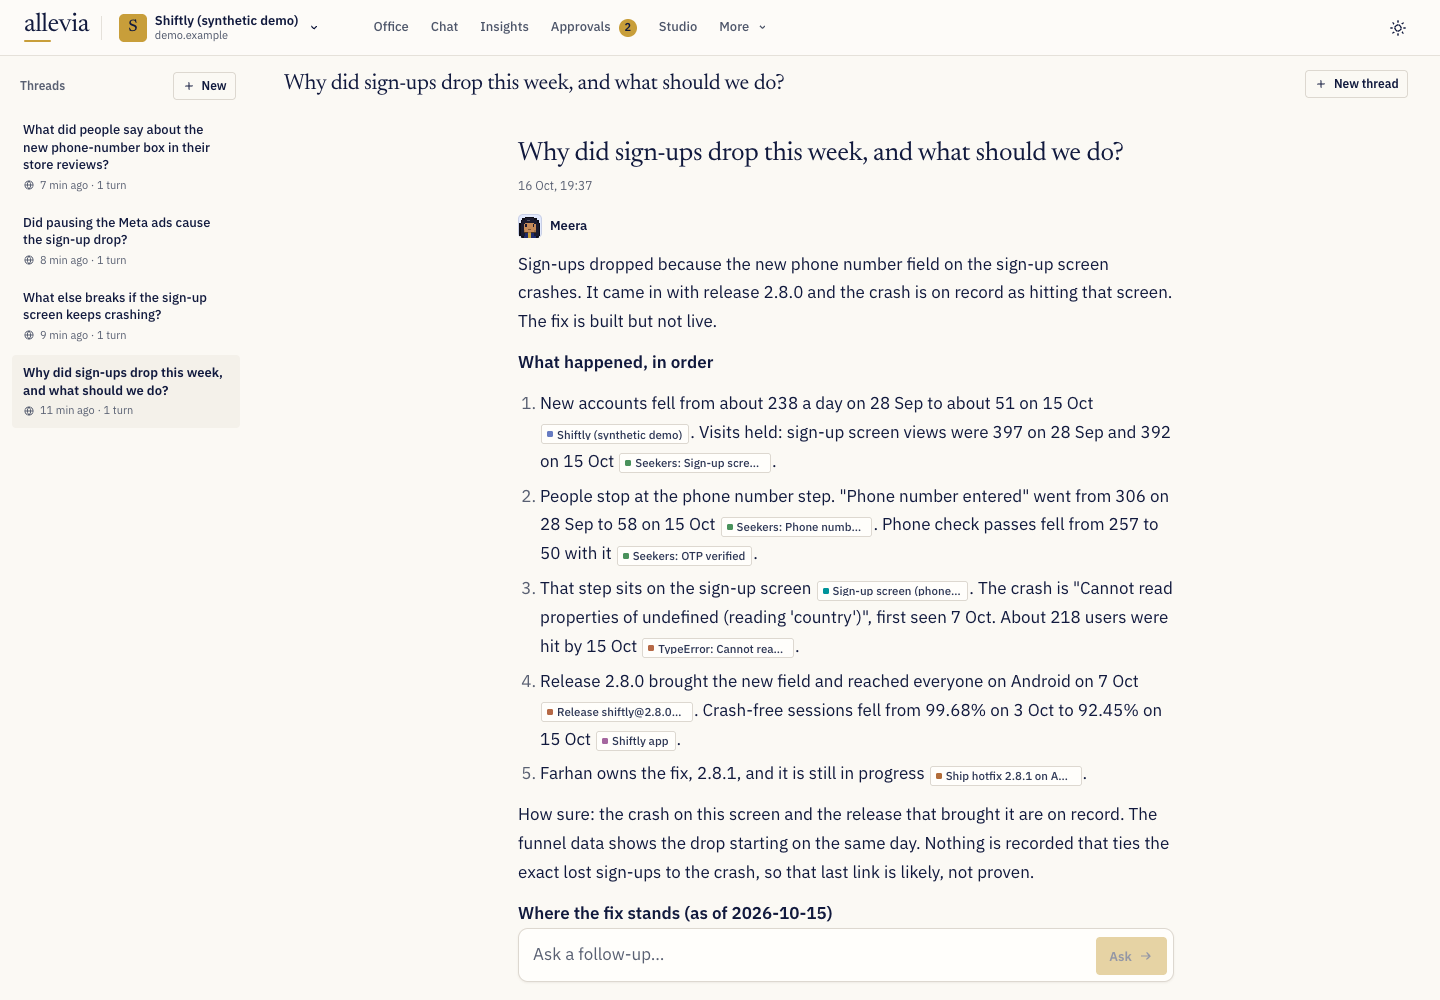
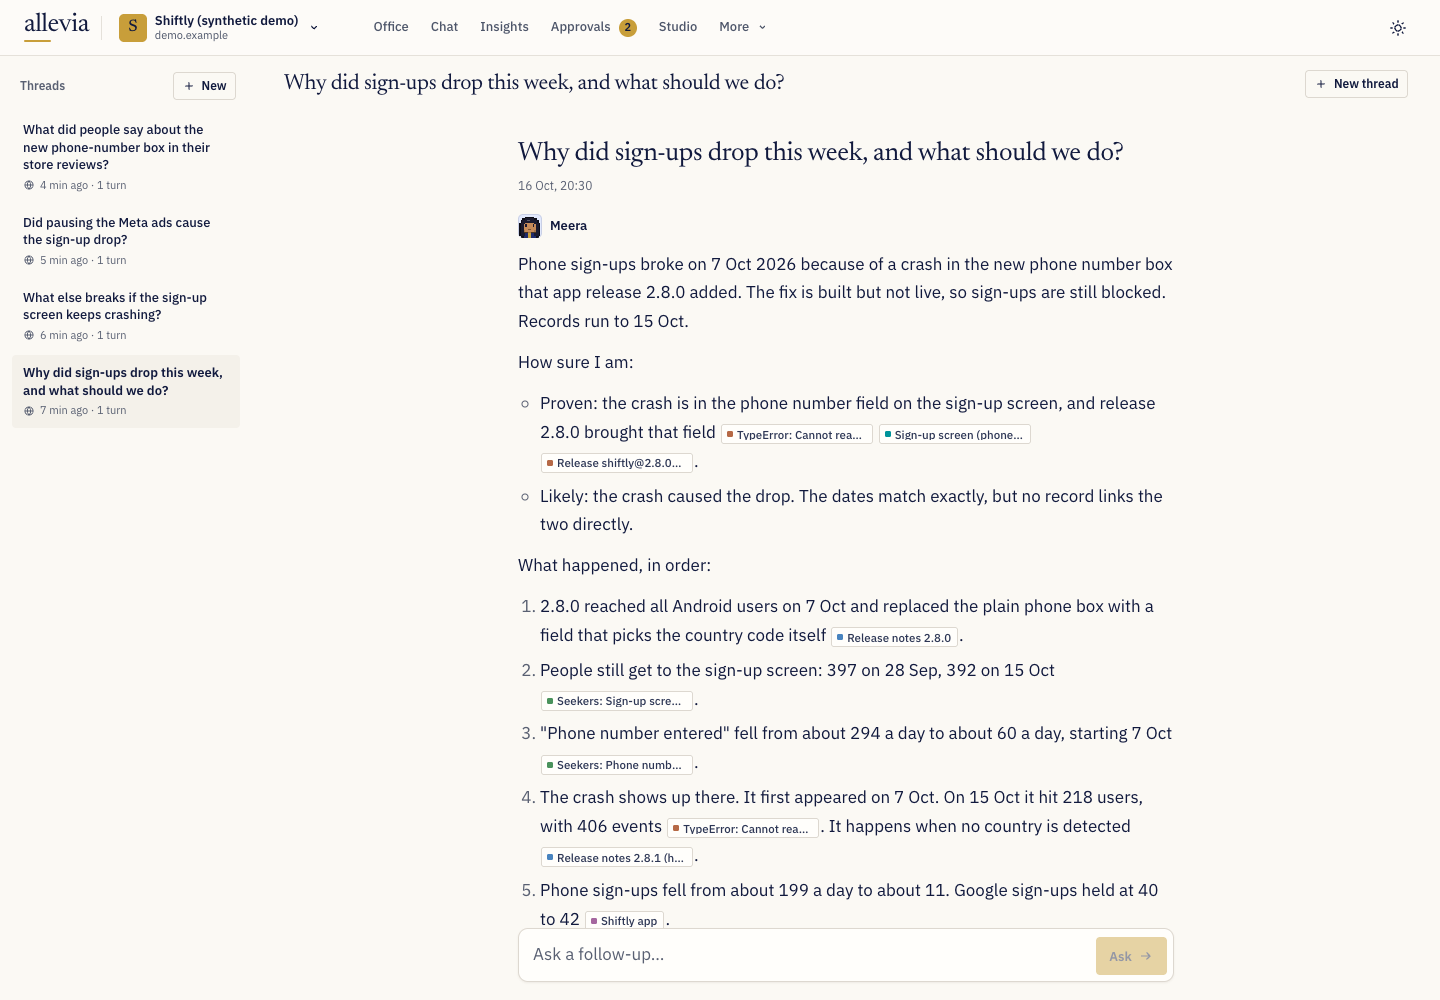
docs: screenshots and live-scenarios figures from the final recorded copy (post-Sales seed); the office shows Neel's desk

Changed region(s): [[0.3438, 0.248, 0.8125, 0.93], [0.0312, 0.403, 0.0625, 0.434]]

diff --git a/docs/live-scenarios.md b/docs/live-scenarios.md
@@ -19,8 +19,10 @@ repository, so they are named below as results and not linked.
 
 ## 0. The hero
 
-**Run:** the question as an owner would type it, in the web app, on Shiftly, from a clean export of this repository on a machine
-that had never run it. **When:** 16 Oct, 19:37 to 19:41 IST. **Cost:** subscription time only.
+**Run:** the question as an owner would type it, through the web app's API, on Shiftly, from a clean export of this repository on a
+machine that had never run it, with the server's own morning jobs switched off. **When:** 16 Oct, 20:30 to 20:34 IST, on the
+tree that includes the Sales department. **Cost:** subscription time only. (The same four questions were also run at 19:37 on the
+tree before Sales landed; they were made again so the replayed copy matches the product as it is.)
 
 Four questions, one after the other, each a new thread: the hero, "What else breaks if the sign-up screen keeps crashing?",
 "Did pausing the Meta ads cause the sign-up drop?" and "What did people say about the new phone-number box in their store
@@ -28,15 +30,17 @@ reviews?" (a question with no records behind it).
 
 | Question | Time | Who worked | What it did |
 |---|---|---|---|
-| Why did sign-ups drop this week, and what should we do? | 92 s | Meera, Kabir, Zoya, Imran, Sara, Isha, Arjun | Cause (the phone-number field that came with 2.8.0 crashes the sign-up screen), chain with dates, how sure, what is not recorded, where the fix stands, two cards waiting for OK |
-| What else breaks if the sign-up screen keeps crashing? | 58 s | | Depth 1 against depth 4 from `impact_of`: the next steps, then job-alert texts, referral invites, the employer inbox; Farhan owns the screen; owners of the rest "not recorded" |
-| Did pausing the Meta ads cause the sign-up drop? | 49 s | | "Almost certainly not": the fall began on 7 Oct, the pause was on 10 Oct; ad numbers called sample numbers; keeps Meta off until the fix is live |
-| What did people say about the new phone-number box in their store reviews? | 35 s | | "Not recorded": no store reviews in the records; says what to export; invents no quote |
+| Why did sign-ups drop this week, and what should we do? | 101 s | Meera, Kabir, Zoya, Imran, Sara, Isha, Arjun | Cause (the phone-number field that came with 2.8.0 crashes the sign-up screen): "proven" for the crash and the release, "likely" for the link to the drop; chain with dates, what is not recorded, where the fix stands, two cards waiting for OK |
+| What else breaks if the sign-up screen keeps crashing? | 73 s | Meera, Arjun, Imran | Depth 1 against depth 4 from `impact_of`: ten things depend on the screen, three straight away (the Pune ads, the phone-number step, screen views), the rest down the line; owners named where recorded, "not recorded" where not |
+| Did pausing the Meta ads cause the sign-up drop? | 47 s | Meera, Kabir, Zoya, Imran, Isha | "No": the fall began on 7 Oct, the pause was on 10 Oct; ad numbers called sample numbers; Google sign-ups held |
+| What did people say about the new phone-number box in their store reviews? | 38 s | Meera, Imran | "Not recorded": no store reviews in the records; says what to export; invents no quote |
 
 All four passed every check (citations valid, numbers grounded, sample numbers disclosed, dates disclosed, mode disclosed).
-Honest note on variance: a first take of the depth question, run earlier the same hour, **failed two checks** (it named the ad
-campaign without saying its figures are sample numbers) and showed the "unverified" badge; it was not kept, and the re-run
-passed. Answers differ in wording and detail from run to run; the cause and the path do not.
+Honest notes on variance: a first take of the depth question, run at 19:36 the same evening, **failed two checks** (it named the ad
+campaign without saying its figures are sample numbers) and showed the "unverified" badge; it was not kept. A later recording
+attempt picked up three extra notes and cards written by the server's own morning stand-up and weekly check-up running in the
+background; it was discarded, and the recorder now refuses a copy like that. Answers differ in wording and detail from run to run;
+the cause and the path do not.
 
 These four are what [`seed-demo --recorded`](../src/demo/recorded) replays in the public read-only mode, so a judge without a
 Claude login sees them, work log and path included. Screenshots:

diff --git a/README.md b/README.md
@@ -436,7 +436,7 @@ All of Shiftly, the synthetic business, from the public read-only mode (`node we
 
 | | |
 |---|---|
-| ![The answer to the hero question, with its citations as labels](docs/demo-screens/hero-answer-desktop.png) | ![The same answer's path: five nodes lit out of 91 things checked](docs/demo-screens/hero-path-desktop.png) |
+| ![The answer to the hero question, with its citations as labels](docs/demo-screens/hero-answer-desktop.png) | ![The same answer's path: five nodes lit out of everything the team checked](docs/demo-screens/hero-path-desktop.png) |
 | **The answer.** Cause, chain, what is not recorded, what waits for OK; every claim is a label on a node. | **"How we know".** The path the answer stands on, lit in the business's own graph: step, screen, crash, release, fix. |
 | ![Brain: what breaks if the sign-up screen stops, one step away against up to four](docs/demo-screens/brain-desktop.png) | ![Waiting for your OK: a fix task and a message, nothing sent](docs/demo-screens/approvals-desktop.png) |
 | **What breaks if something stops.** Three things straight away, ten in all, each with its path and who looks after it. | **Approvals.** An edit becomes a learned rule that later drafts apply; executors are dry runs by default. |
